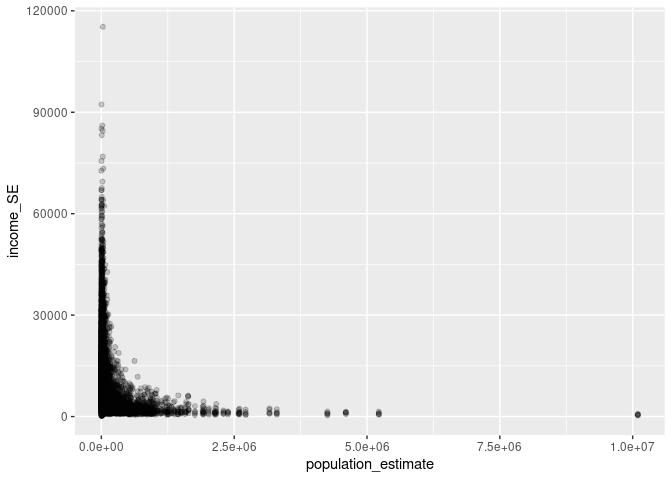
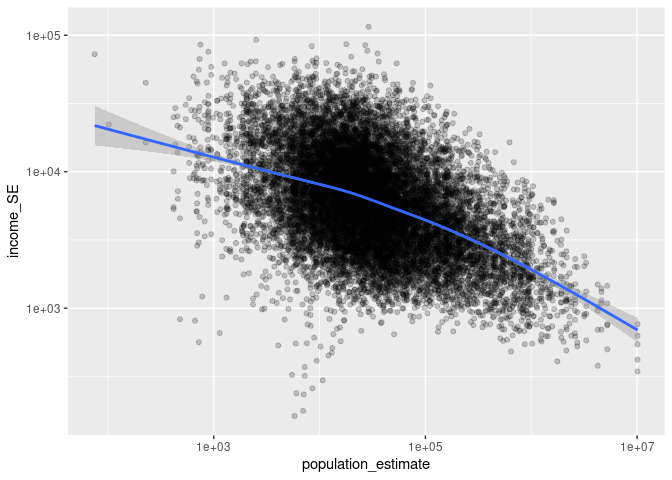
finished revision assign9

diff --git a/data-science-curriculum-build/challenges/c09-income-assignment.md b/data-science-curriculum-build/challenges/c09-income-assignment.md
@@ -738,8 +738,7 @@ df_data %>%
   - Not super, they are closely clustered together and the range in each
     categories are quite narrow.
 - Which counties have the widest confidence intervals?
-  - I thought they all have 99% confidence interval so I would say the
-    same?
+  - nantucket, dukes, Hampshire, berkshire
 
 In the next task you’ll investigate the relationship between population
 and uncertainty.
@@ -752,8 +751,16 @@ and uncertainty.
 ``` r
 df_data %>%
   ggplot(aes(population_estimate,income_SE)) +
-  geom_point(alpha = 0.2) 
+  geom_point(alpha = 0.2) +
+  scale_x_log10()+
+  scale_y_log10()+
+  geom_smooth()
 ```
+
+    ## `geom_smooth()` using method = 'gam' and formula = 'y ~ s(x, bs = "cs")'
+
+    ## Warning: Removed 814 rows containing non-finite outside the scale range
+    ## (`stat_smooth()`).
 
     ## Warning: Removed 814 rows containing missing values or values outside the scale range
     ## (`geom_point()`).
@@ -766,9 +773,12 @@ df_data %>%
   this trend exist?
   - the bigger the population size is, the smaller the income standard
     error. This makes sense because standard error is directly
-    influenced by sample size(population), and when the population is
-    big, the median values are less prone to be influenced by the
-    outliers and the extremeties.
+    influenced by sample size when the sample size is directly
+    correlated to population(let’s say we take 10% of households in each
+    counties as our sample), then when the population is big, the median
+    values are less prone to be influenced by the outliers and the
+    extremeties since one data point doesn’t have that big of an
+    influence on the median.
 - What does this *overall* trend tell you about the relative ease of
   studying small vs large counties?
   - Smaller counties with smaller populations may have more significant
